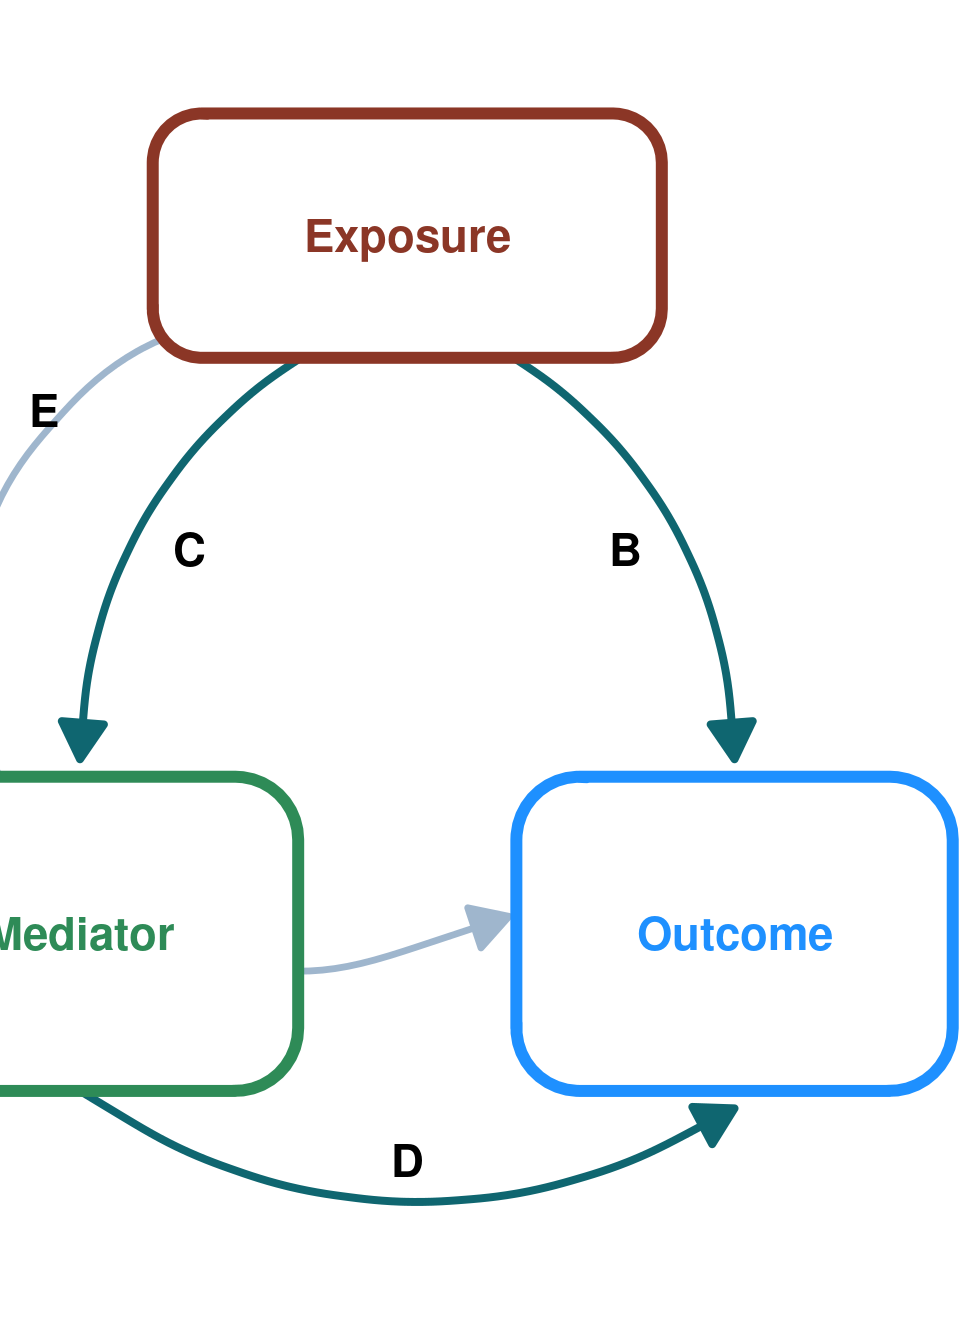
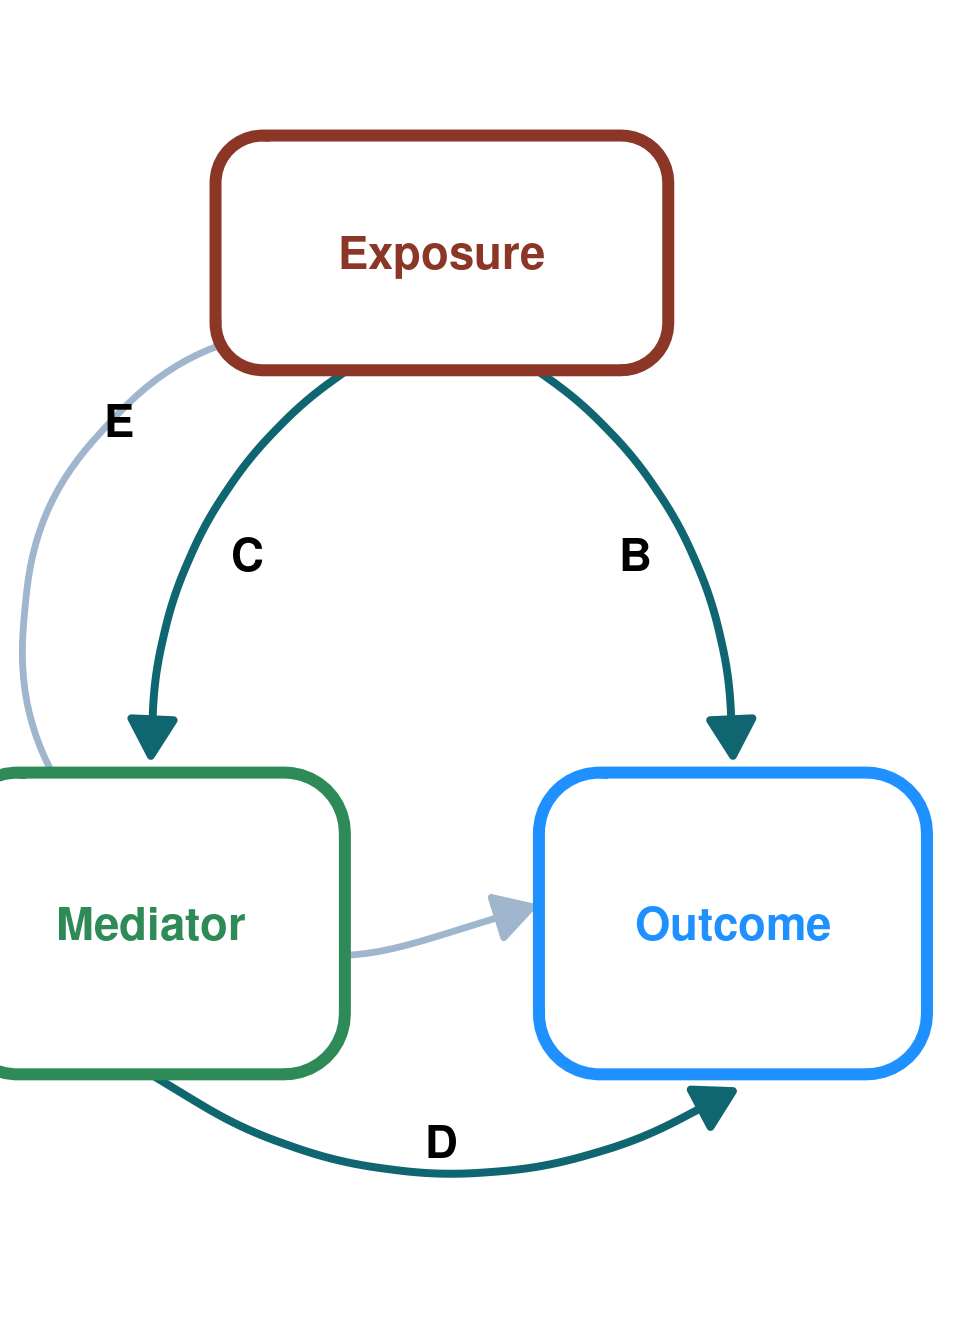
Add left margin to DAG plot to prevent cutoff

diff --git a/docs/simulations.html b/docs/simulations.html
@@ -295,8 +295,9 @@ pre > code.sourceCode > span > a:first-child::before { text-decoration: underlin
 <details class="code-fold">
 <summary>Code</summary>
 <div class="sourceCode cell-code" id="cb3"><pre class="sourceCode r code-with-copy"><code class="sourceCode r"><span id="cb3-1"><a href="#cb3-1" aria-hidden="true" tabindex="-1"></a><span class="co"># Create DAG with default labels</span></span>
-<span id="cb3-2"><a href="#cb3-2" aria-hidden="true" tabindex="-1"></a>DAG_default <span class="ot">&lt;-</span> <span class="fu">create_dag_plot</span>()</span>
-<span id="cb3-3"><a href="#cb3-3" aria-hidden="true" tabindex="-1"></a><span class="fu">print</span>(DAG_default)</span></code><button title="Copy to Clipboard" class="code-copy-button"><i class="bi"></i></button></pre></div>
+<span id="cb3-2"><a href="#cb3-2" aria-hidden="true" tabindex="-1"></a>DAG_default <span class="ot">&lt;-</span> <span class="fu">create_dag_plot</span>() <span class="sc">+</span></span>
+<span id="cb3-3"><a href="#cb3-3" aria-hidden="true" tabindex="-1"></a>  <span class="fu">theme</span>(<span class="at">plot.margin =</span> <span class="fu">margin</span>(<span class="at">t =</span> <span class="dv">10</span>, <span class="at">r =</span> <span class="dv">10</span>, <span class="at">b =</span> <span class="dv">10</span>, <span class="at">l =</span> <span class="dv">30</span>, <span class="at">unit =</span> <span class="st">"pt"</span>))</span>
+<span id="cb3-4"><a href="#cb3-4" aria-hidden="true" tabindex="-1"></a><span class="fu">print</span>(DAG_default)</span></code><button title="Copy to Clipboard" class="code-copy-button"><i class="bi"></i></button></pre></div>
 </details>
 <div class="cell-output-display">
 <div>
